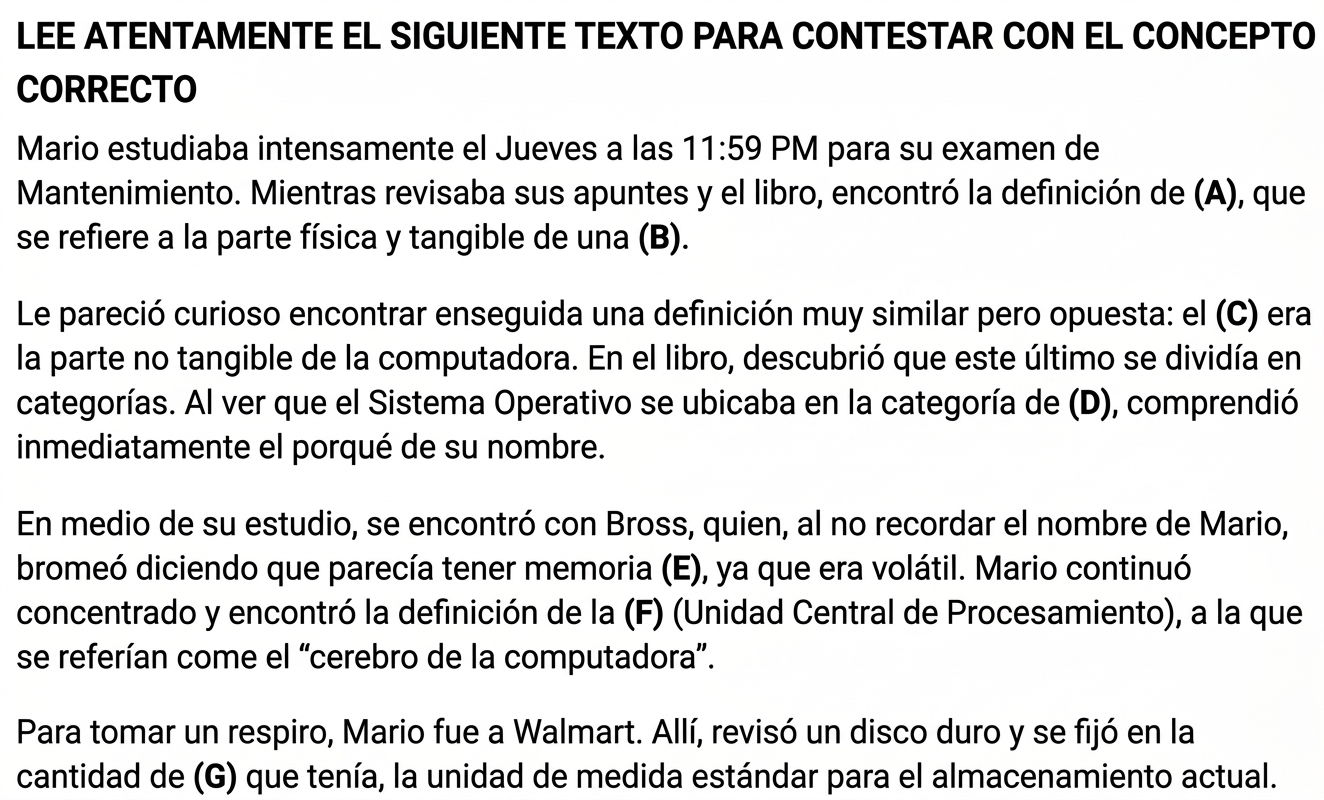
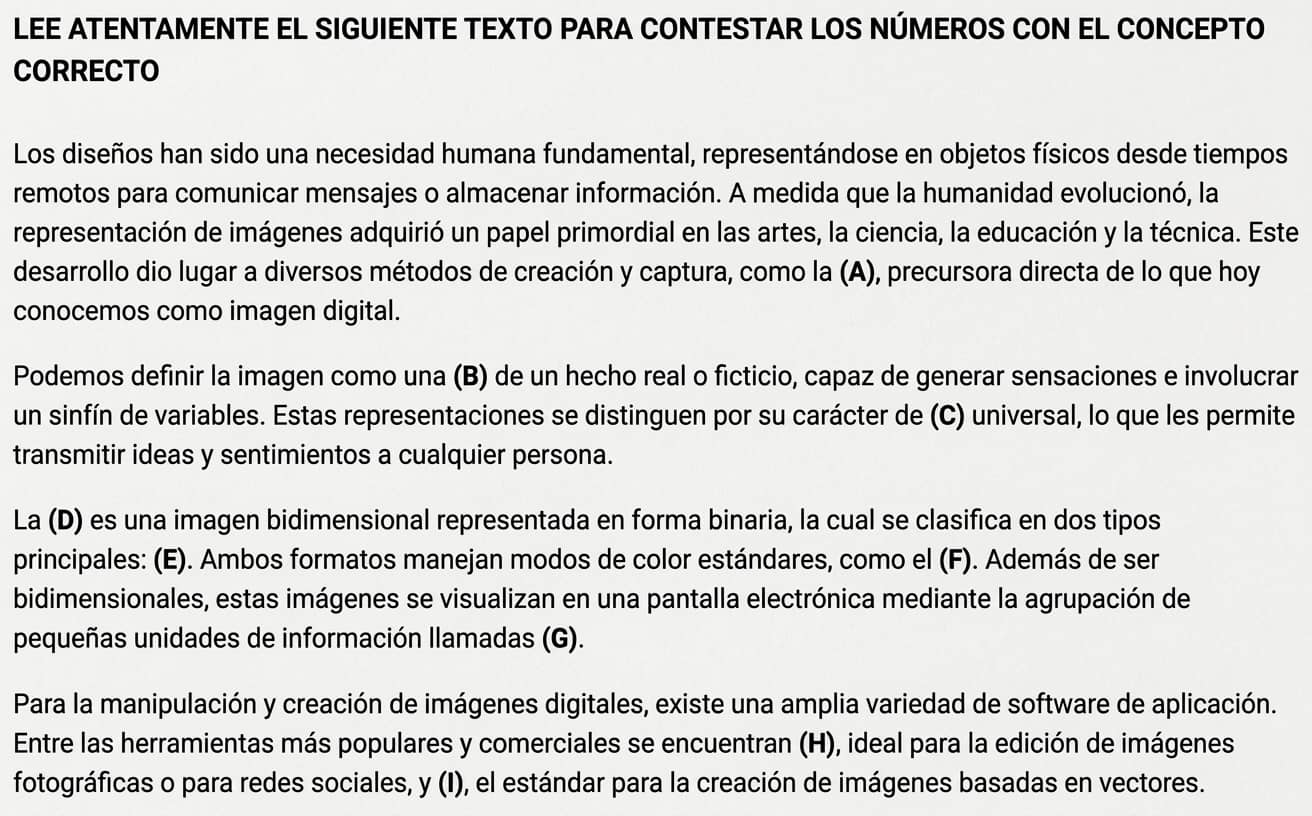
Examenes

Changed region(s): [[0.0, 0.1562, 1.0, 0.5938], [0.0, 0.625, 1.0, 1.0], [0.0, 0.0, 1.0, 0.125]]

diff --git a/Examen500.html b/Examen500.html
@@ -1,0 +1,319 @@
+<!DOCTYPE html>
+<html lang="es" data-bs-theme="dark">
+
+<head>
+  <meta charset="UTF-8">
+  <meta name="viewport" content="width=device-width, initial-scale=1.0">
+  <title>COBACH JMMT</title>
+  <link rel="icon" type="image/png" href="imgs/favicon.png" />
+
+  <link href="https://cdn.jsdelivr.net/npm/bootstrap@5.3.8/dist/css/bootstrap.min.css" rel="stylesheet"
+    integrity="sha384-sRIl4kxILFvY47J16cr9ZwB07vP4J8+LH7qKQnuqkuIAvNWLzeN8tE5YBujZqJLB" crossorigin="anonymous">
+  <script src="https://cdn.jsdelivr.net/npm/bootstrap@5.3.8/dist/js/bootstrap.bundle.min.js"
+    integrity="sha384-FKyoEForCGlyvwx9Hj09JcYn3nv7wiPVlz7YYwJrWVcXK/BmnVDxM+D2scQbITxI"
+    crossorigin="anonymous"></script>
+  <link rel="stylesheet" href="https://cdn.jsdelivr.net/npm/bootstrap-icons@1.13.1/font/bootstrap-icons.min.css">
+
+  <link rel="stylesheet" href="principal.css">
+  <script src="principal.js"></script>
+</head>
+
+<body>
+  <h-cargando></h-cargando>
+  <h-menu></h-menu>
+
+  <main>
+    <div class="container">
+      <div class="text-center mb-4">
+        <h1>Examen</h1>
+        <p>
+          Por favor, completa tus datos y responde las preguntas.
+        </p>
+      </div>
+
+      <form id="studentForm" class="card-body pb-2 md-4" novalidate>
+        <!-- Datos del Alumno -->
+        <div class="container mb-3 border rounded p-3">
+          <div class="row row-cols-1">
+            <div class="col">
+              <h5 class="pb-2" style="color: var(--bg-titulo);">
+                <i class="bi bi-mortarboard-fill"></i> Datos del Alumno
+              </h5>
+            </div>
+            <div class="col">
+              <div class="row g-3">
+                <div class="col-12">
+                  <label for="grupo" class="form-label fw-bold">Grupo / Turno *</label>
+                  <select id="grupo" name="grupo" required class="form-select">
+                    <option value="" disabled selected>Selecciona tu grupo...</option>
+                    <option value="501M">501M</option>
+                    <option value="502M">502M</option>
+                    <option value="501V">501V</option>
+                    <option value="502V">502V</option>
+                  </select>
+                </div>
+                <div class="col-md-6">
+                  <label for="nombres" class="form-label fw-bold">Nombre(s) *</label>
+                  <input type="text" id="nombres" name="nombres" required placeholder="Ej. María Fernanda"
+                    class="form-control">
+                </div>
+                <div class="col-md-6">
+                  <label for="apellidos" class="form-label fw-bold">Apellidos *</label>
+                  <input type="text" id="apellidos" name="apellidos" required placeholder="Ej. Pérez Gómez"
+                    class="form-control">
+                </div>
+              </div>
+            </div>
+          </div>
+        </div>
+
+        <!-- Datos de Preguntas -->
+        <div class="container mb-3 border rounded p-3">
+          <div class="row row-cols-1">
+            <div class="col">
+              <h5 class="pb-2" style="color: var(--bg-titulo);">
+                <i class="bi bi-patch-question-fill"></i> Preguntas
+              </h5>
+            </div>
+            <div class="col-12">
+              <div id="imagenesContainer" class="w-100 mb-3"></div>
+            </div>
+            <div class="col">
+              <div id="preguntasContainer"></div>
+            </div>
+          </div>
+        </div>
+        <button type="submit" id="submitBtn" class="btn btn-primary w-100 fw-bold shadow-sm py-3 mt-3 d-none">
+          Enviar mis respuestas <i class="fas fa-paper-plane ms-2"></i>
+        </button>
+      </form>
+    </div>
+  </main>
+
+  <footer></footer>
+
+  <script>
+    // VARIABLES DE CONTROL Y ESTADO GLOBAL
+    let modalsaliste = null;
+    let respuestasCorrectas = {};
+    let examenTerminado = true;
+    let HOJA = "";
+    let vecesSalio = sessionStorage.getItem('vecesSalio') || "0";
+
+    // Modifica visualmente el botón de envío si hay registros de salida
+    function actualizarVecesSalio() {
+      const numSalidas = parseInt(vecesSalio, 10);
+      if (numSalidas > 0) {
+        const btn = document.getElementById('submitBtn');
+        if (btn) {
+          btn.innerHTML = `Enviar (Te saliste ${numSalidas} ${numSalidas === 1 ? 'vez' : 'veces'}) <i class="bi bi-send ms-2"></i>`;
+        }
+      }
+    }
+
+    window.addEventListener('DOMContentLoaded', () => {
+      // Inicialización perezosa del modal después de que principal.js inyectó el footer
+      const modalElement = document.getElementById('modalSaliste');
+      if (modalElement) {
+        modalsaliste = new bootstrap.Modal(modalElement);
+
+        // Listener nativo del ciclo de vida de Bootstrap
+        modalElement.addEventListener('shown.bs.modal', () => {
+          let currentCount = parseInt(sessionStorage.getItem('vecesSalio') || "0", 10);
+          currentCount++;
+          vecesSalio = currentCount.toString();
+          sessionStorage.setItem('vecesSalio', vecesSalio);
+          actualizarVecesSalio();
+        });
+      }
+
+      // Ejecución de rutinas de carga inicial
+      actualizarVecesSalio();
+      cargarPreguntas();
+    });
+
+    // LÓGICA DEL EXAMEN
+    function revolverArreglo(arreglo) {
+      for (let i = arreglo.length - 1; i > 0; i--) {
+        const j = Math.floor(Math.random() * (i + 1));
+        [arreglo[i], arreglo[j]] = [arreglo[j], arreglo[i]];
+      }
+      return arreglo;
+    }
+
+    async function cargarPreguntas() {
+      msgCargando(true);
+
+      try {
+        HOJA = await obtenerUrlSem('500');
+        if (!HOJA) { msgError("Error al conectarse Hoja ADM"); return; }
+
+        const response = await fetch(HOJA, { method: 'GET', cache: 'no-store' });
+        if (!response.ok) { msgError("Error al conectarse Hoja Semestre"); return; }
+
+        const data = await response.json();
+        
+        // --- PROCESAR IMÁGENES LOCALES (1.jpg, 1.jpeg, 2.jpg, 2.jpeg, ...) ---
+        const carpetaImagenes = 'imgs/examen/';
+        let htmlImagenes = '';
+
+        // Assumiendo un máximo de 20 imágenes por examen
+        for (let i = 1; i <= 20; i++) {
+          const rutaJpg = `${carpetaImagenes}${i}.jpg`;
+          const rutaJpeg = `${carpetaImagenes}${i}.jpeg`;
+
+          // Intentamos cargar la versión .jpg y .jpeg de cada número
+          htmlImagenes += `
+            <img src="${rutaJpg}" class="img-fluid w-100 rounded shadow-sm mb-3" alt="Imagen ${i}" onerror="this.style.display='none'">
+            <img src="${rutaJpeg}" class="img-fluid w-100 rounded shadow-sm mb-3" alt="Imagen ${i}" onerror="this.style.display='none'">
+          `;
+        }
+
+        document.getElementById('imagenesContainer').innerHTML = htmlImagenes;
+        // --- FIN IMÁGENES LOCALES ---
+
+        let htmlContent = '';
+        let numPregunta = 0;
+
+        const inicio = (data.length > 0 && data[0][0].toString().toLowerCase().includes('pregunta')) ? 1 : 0;
+
+        for (let i = inicio; i < data.length; i++) {
+          const fila = data[i];
+          if (!fila[0]) continue;
+
+          numPregunta++;
+          const textoPregunta = fila[0];
+
+          if (fila[1]) {
+            respuestasCorrectas['pregunta' + numPregunta] = fila[1].toString().trim().toLowerCase();
+          }
+
+          htmlContent += `<div class="mb-4"><p class="fw-bold mb-2">${numPregunta}. ${textoPregunta} *</p>`;
+
+          let opcionesTemporales = [];
+          for (let j = 2; j < fila.length; j++) {
+            if (fila[j]) opcionesTemporales.push(fila[j]);
+          }
+
+          opcionesTemporales = revolverArreglo(opcionesTemporales);
+
+          let numOpcion = 0;
+          for (let k = 0; k < opcionesTemporales.length; k++) {
+            const textoOpcion = opcionesTemporales[k];
+            numOpcion++;
+            const idOpcion = `p${numPregunta}_o${numOpcion}`;
+            const valorSeguro = textoOpcion.toString().replace(/"/g, '&quot;');
+
+            htmlContent += `
+                <div class="border rounded-3 p-3 mb-2">
+                  <div class="form-check m-0">
+                    <input class="form-check-input" type="radio" name="pregunta${numPregunta}" id="${idOpcion}" value="${valorSeguro}" required>
+                    <label class="form-check-label w-100" style="cursor: pointer;" for="${idOpcion}">${textoOpcion}</label>
+                  </div>
+                </div>
+              `;
+          }
+          htmlContent += `</div>`;
+        }
+
+        const container = document.getElementById('preguntasContainer');
+        if (htmlContent) {
+          container.innerHTML = htmlContent;
+          document.getElementById('submitBtn').classList.remove('d-none');
+          examenTerminado = false;
+        }
+        else {
+          msgError("Error al cargar las preguntas (No hay ninguna)");
+        }
+      }
+      catch (e) {
+        msgError("Error al cargar las preguntas");
+      }
+      finally { msgCargando(false); }
+    }
+
+    // SEGURIDAD ANTI-TRAMPAS (LISTENERS)   
+    document.addEventListener('visibilitychange', () => {
+      if (examenTerminado) return;
+      if (document.hidden) { modalsaliste.show(); }
+    });
+
+    window.addEventListener('blur', () => {
+      if (examenTerminado) return;
+      modalsaliste.show();
+    });
+
+    document.addEventListener('contextmenu', e => {
+      if (!examenTerminado) {
+        e.preventDefault();
+        msgAlerta('Acción no permitida');
+      }
+    });
+
+    // ENVÍO Y PROCESAMIENTO DE RESPUESTAS
+    const form = document.getElementById('studentForm');
+    const submitBtn = document.getElementById('submitBtn');
+
+    form.addEventListener('submit', async e => {
+      e.preventDefault();
+
+      if (!form.checkValidity()) {
+        e.stopPropagation();
+        form.classList.add('was-validated'); // Enciende los bordes rojos en los campos vacíos
+
+        // Extra: Hace scroll automático hacia el primer campo que el alumno dejó vacío
+        const primerError = form.querySelector(':invalid');
+        if (primerError) {
+          primerError.scrollIntoView({ behavior: 'smooth', block: 'center' });
+        }
+        return;
+      }
+
+      msgCargando(true);
+      try {
+        // Ocultamos el botón para evitar dobles envíos accidentales
+        submitBtn.classList.add('d-none');
+        msgError("Guardando y calificando...");
+
+        const formData = new FormData(form);
+        let aciertos = 0;
+
+        // Calificación automática de respuestas
+        for (const [preguntaKey, respuestaCorrecta] of Object.entries(respuestasCorrectas)) {
+          const respuestaAlumno = formData.get(preguntaKey);
+          if (respuestaAlumno && respuestaAlumno.toString().trim().toLowerCase() === respuestaCorrecta) {
+            aciertos++;
+            formData.append('eval_' + preguntaKey, 'correcta');
+          } else {
+            formData.append('eval_' + preguntaKey, 'incorrecta');
+          }
+        }
+
+        formData.append('vecesSalio', vecesSalio);
+        formData.append('totalCorrectas', aciertos);
+
+
+        // Con el await, JavaScript espera de verdad a que Google Sheets responda
+        await fetch(HOJA, { method: 'POST', body: formData, mode: 'no-cors' });
+
+        examenTerminado = true;
+        msgError("¡Tus respuestas se han guardado! Examen finalizado");
+        sessionStorage.removeItem('vecesSalio');
+
+        // Deshabilitamos controles para que no los vuelvan a cambiar
+        const inputs = form.querySelectorAll('input, select, button');
+        inputs.forEach(input => input.disabled = true);
+
+      }
+      catch (e) {
+        msgError('Error al guardar las preguntas');
+      }
+      finally {
+        submitBtn.classList.remove('d-none');
+        msgCargando(false);
+      }
+    });
+  </script>
+</body>
+
+</html>
